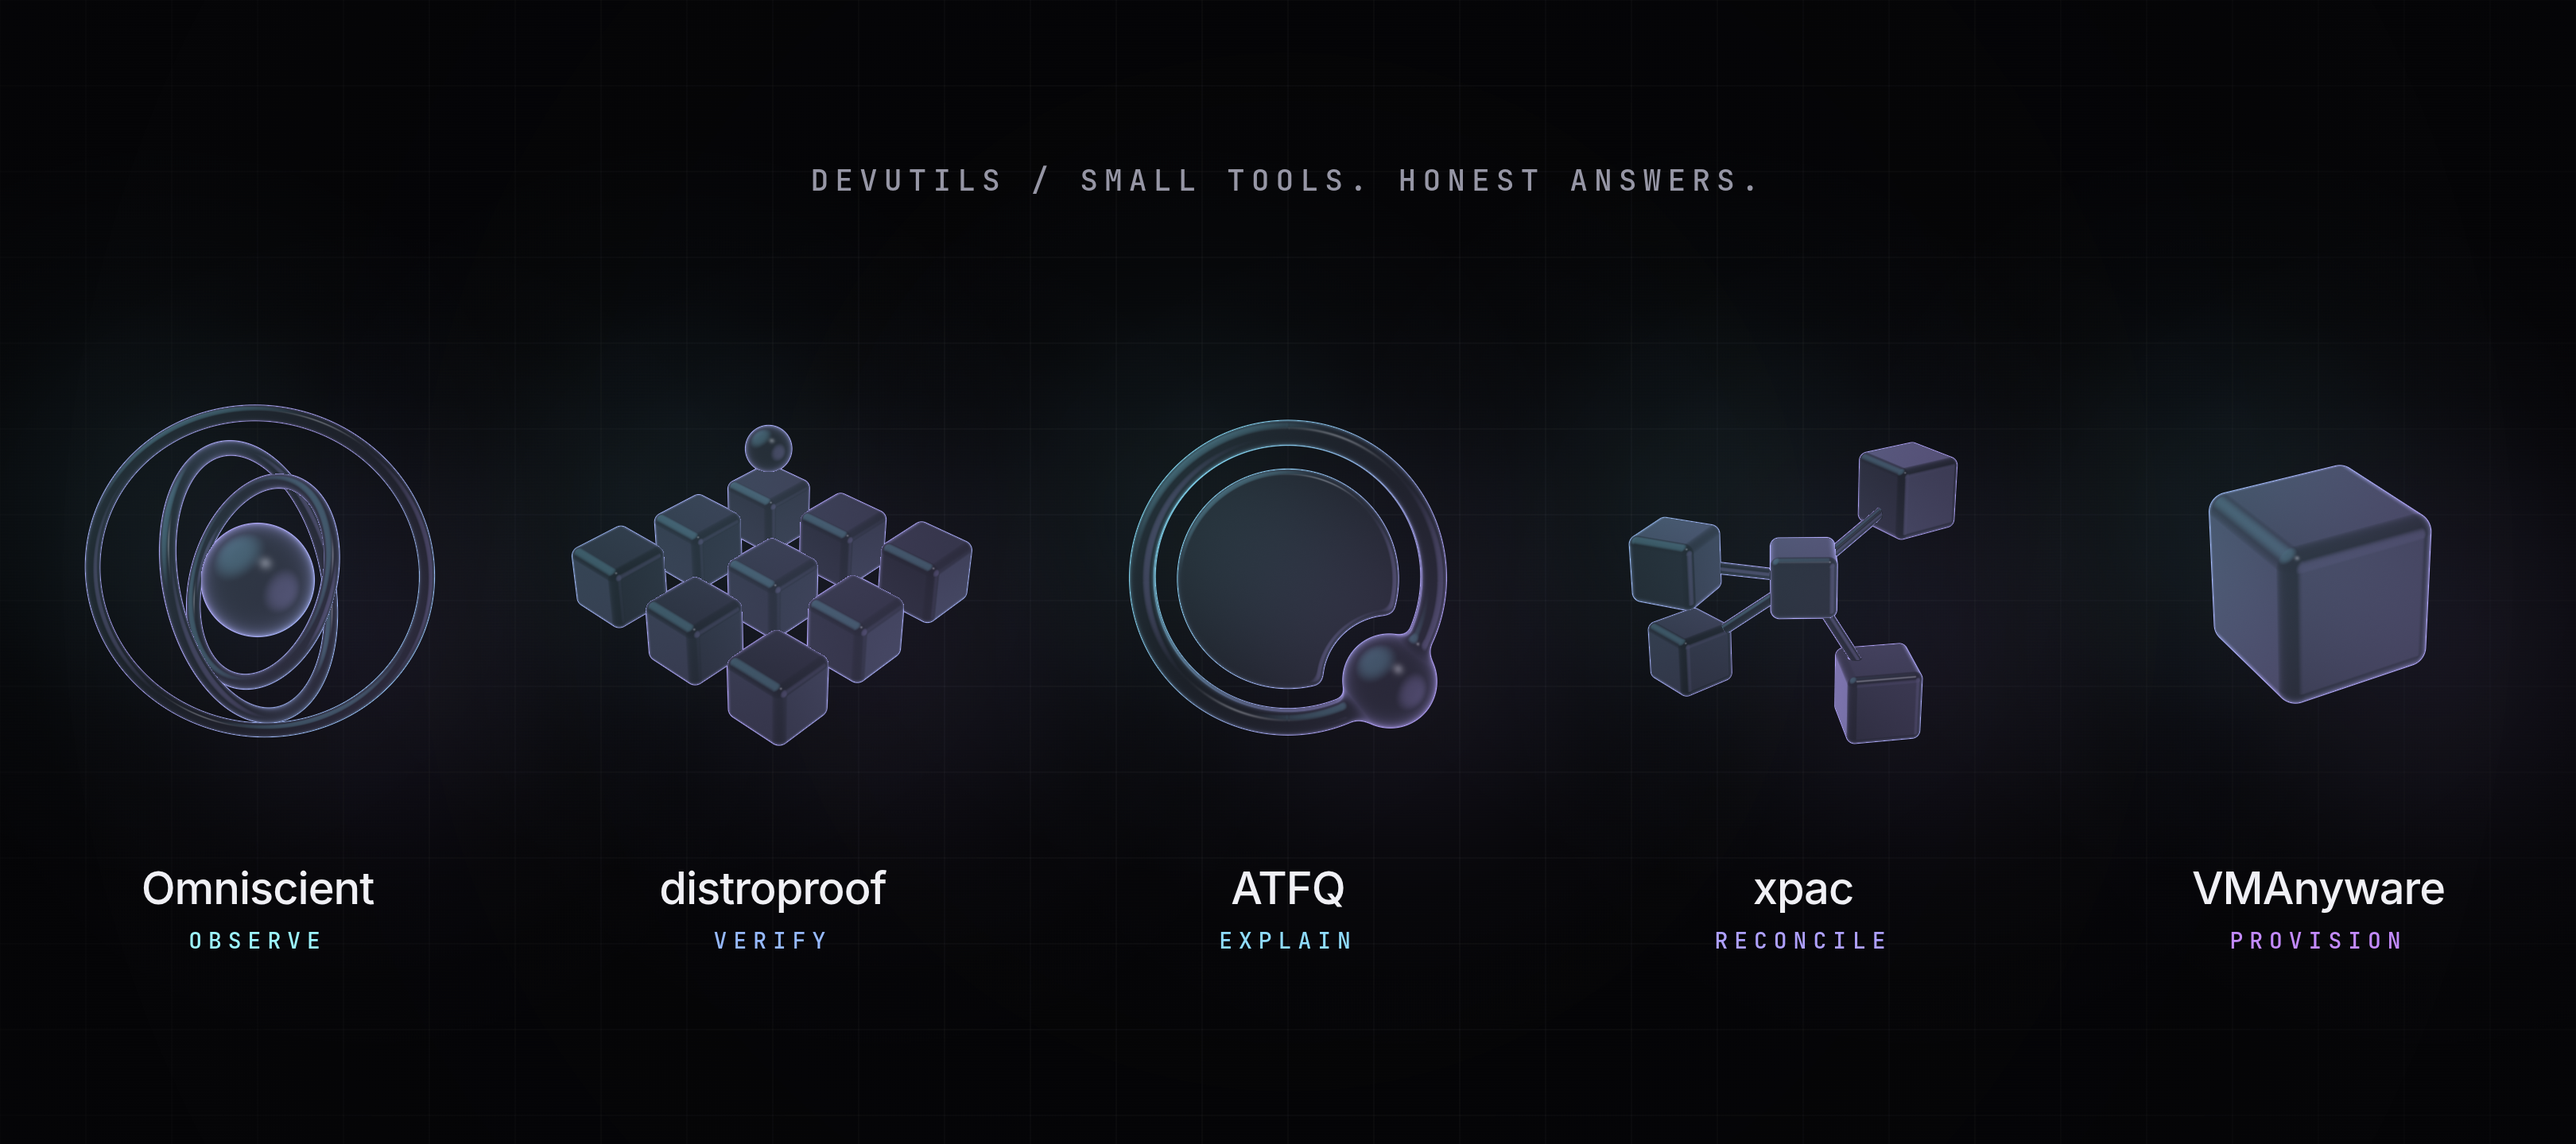
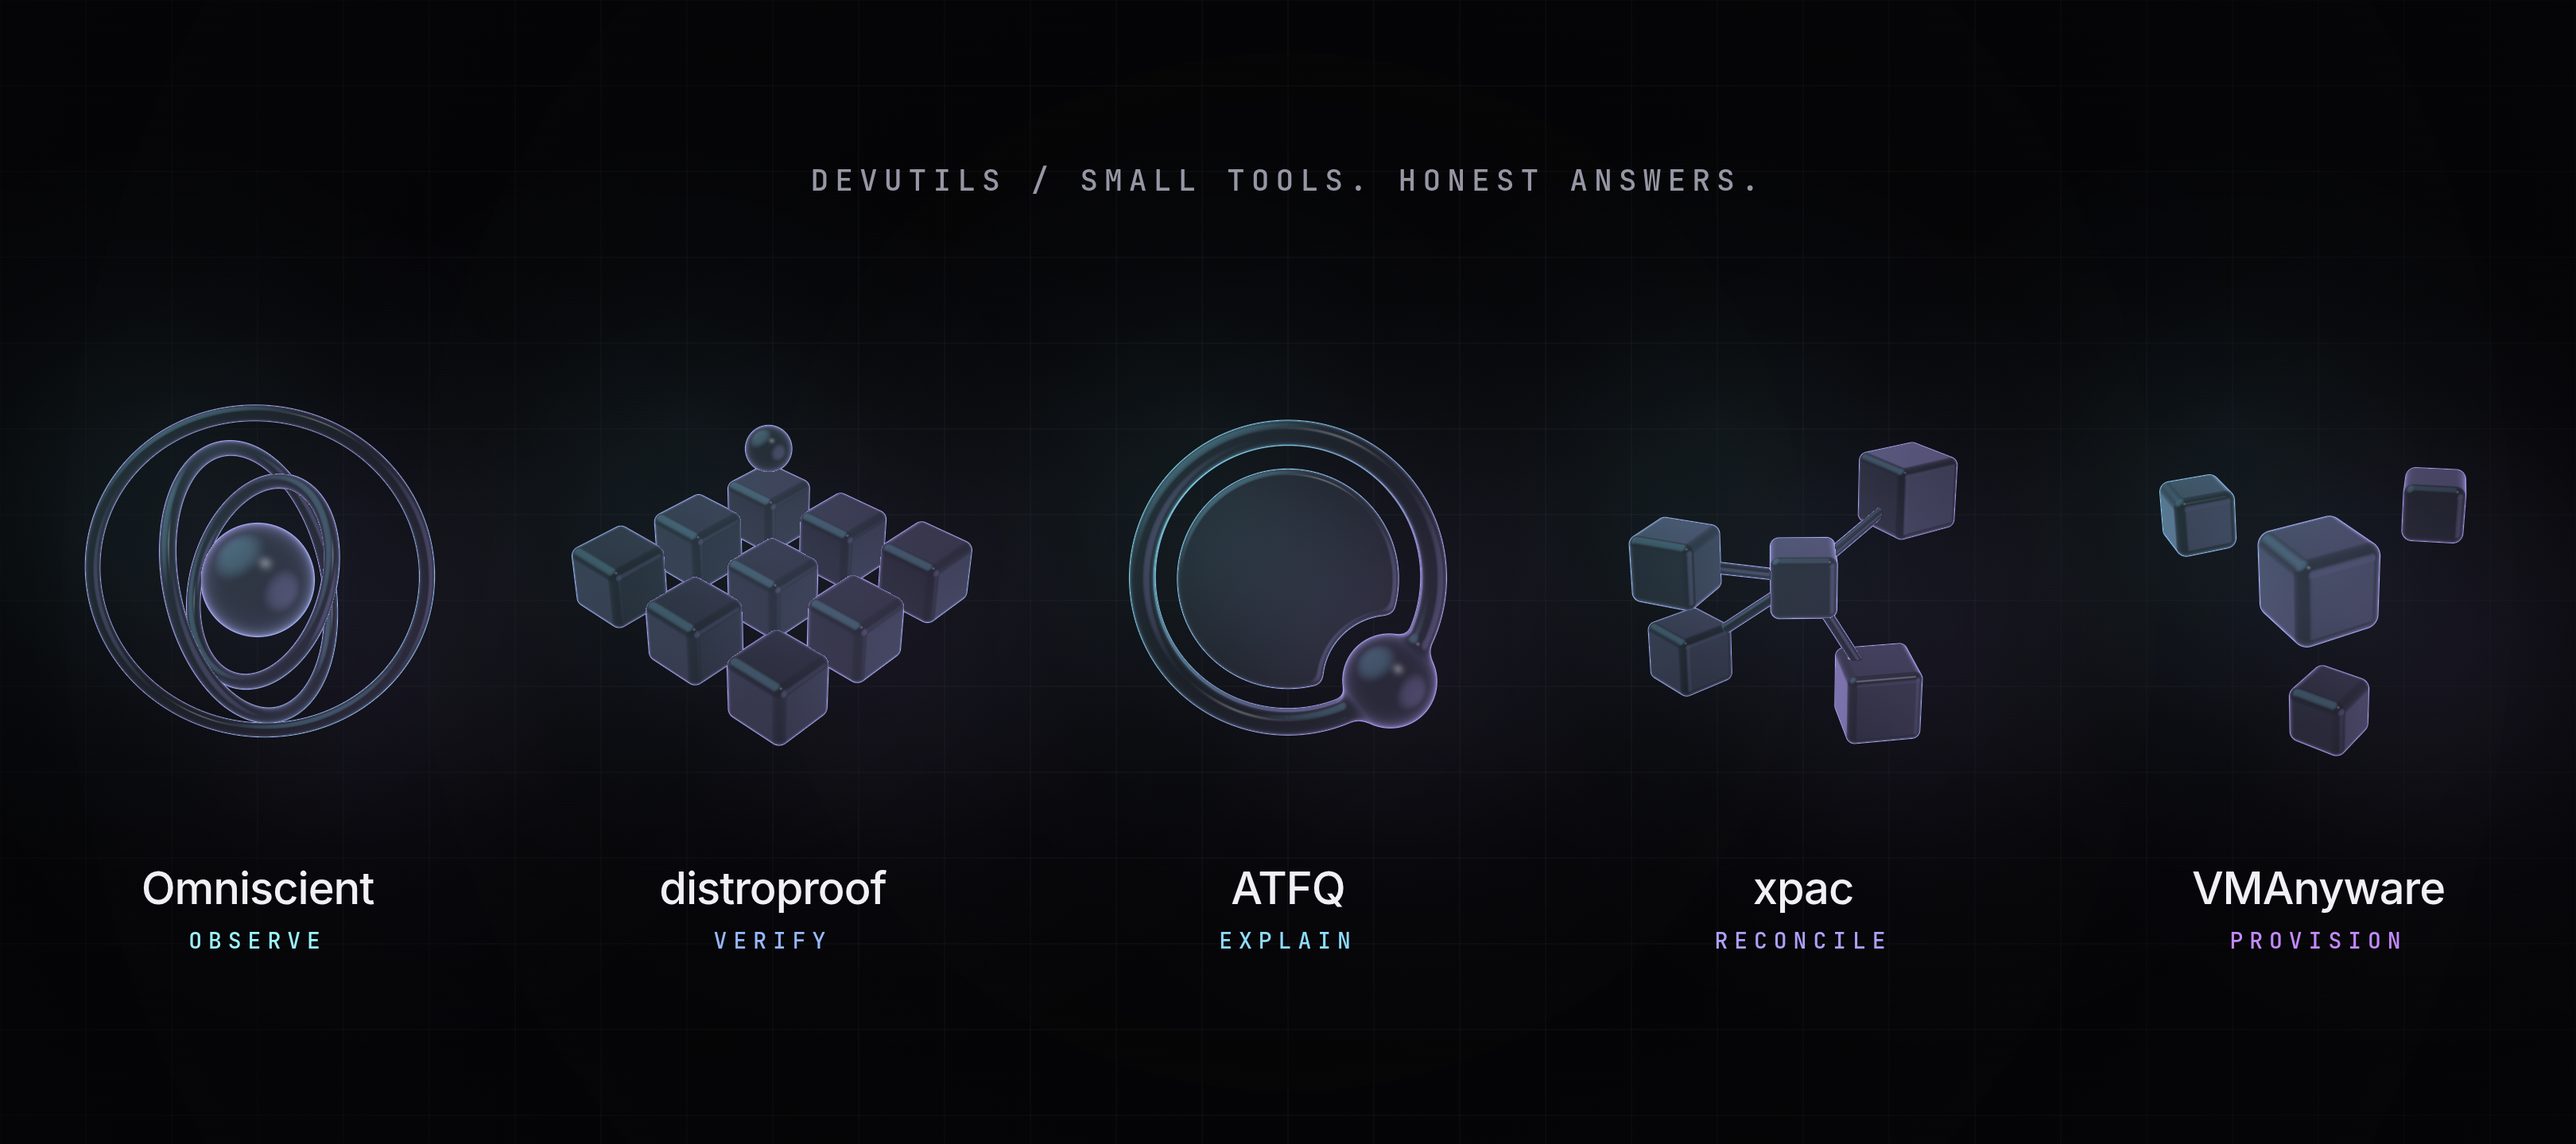
Instagram: VMAnyware with its instances out
The definition and the copies it buds, at the size of the other shapes.

Changed region(s): [[0.8417, 0.4062, 0.9664, 0.6562]]

diff --git a/social/instagram.js b/social/instagram.js
@@ -28,7 +28,7 @@ const look = {
   atfq: { shape: 'mark', name: 'ATFQ', scale: 0.92 },
   distroproof: { shape: 'distroproof', name: 'distroproof', scale: 1.12 },
   xpac: { shape: 'xpac', name: 'xpac', scale: 1.12 },
-  vmanyware: { shape: 'vmanyware', name: 'VMAnyware', scale: 1.25 },
+  vmanyware: { shape: 'vmanyware', name: 'VMAnyware', scale: 0.95 },
 }
 
 // ---------- the composition ----------
@@ -173,7 +173,9 @@ function drawGlass(list) {
     gl.uniform1f(u('uAngle'), -Math.PI / 4)
     gl.uniformMatrix3fv(u('uInvRot'), false, new Float32Array([cy, 0, sy, sx * sy, cx, -sx * cy, -cx * sy, sx, cx * cy]))
     gl.uniform2f(u('uPointer'), 0, 0)
-    gl.uniform1f(u('uState'), 0)
+    // VMAnyware is shown with its instances out: the state the pointer
+    // brings on the site, where the definition buds its copies
+    gl.uniform1f(u('uState'), s.id === 'vmanyware' ? 1 : 0)
     const half = Math.ceil(r * shape.bound * 1.08 + 4)
     gl.scissor(Math.max(0, s.x - half), Math.max(0, H - s.y - half), half * 2, half * 2)
     gl.drawArrays(gl.TRIANGLES, 0, 3)
